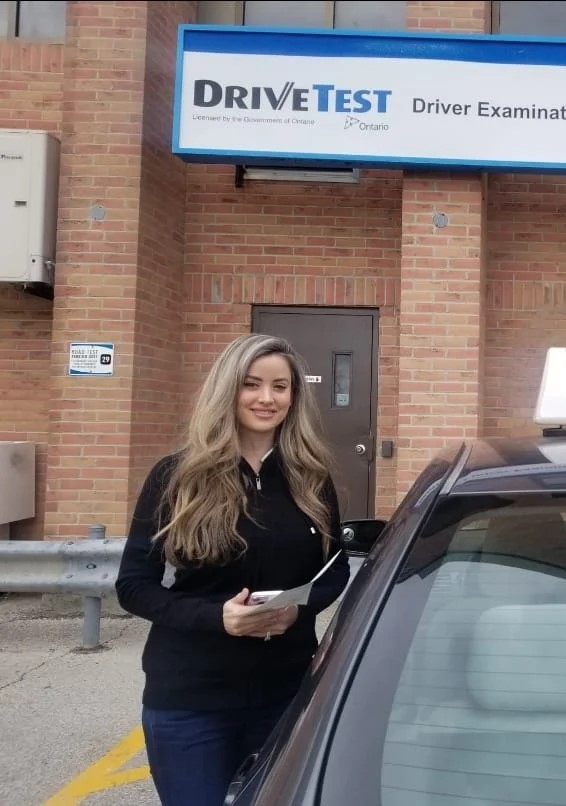
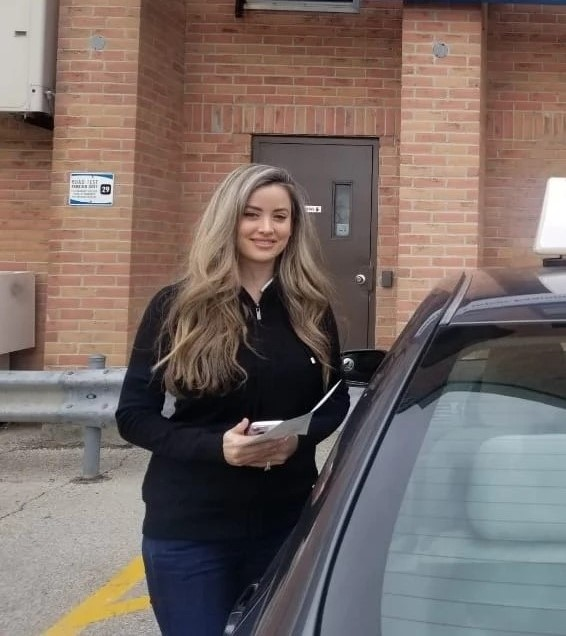
Update image sources for driving lessons in about.html and index.html

diff --git a/index.html b/index.html
@@ -315,8 +315,8 @@
             <div class="row g-5">
                 <div class="col-lg-6 wow fadeInUp" data-wow-delay="0.1s">
                     <div class="position-relative overflow-hidden ps-5 pt-5 h-100" style="min-height: 400px;">
-                        <img class="position-absolute w-100 h-100" src="img/car-teen-driving-lessons-windsor-ontario.jpg" alt="Top Windsor Driving School" style="object-fit: cover; object-position: 0% 100%;" loading="lazy">
-                        <img class="position-absolute top-0 start-0 bg-white pe-3 pb-3" src="img/driving-test-preparation-windsor,-ontario.png" alt="Student training session" style="width: 200px; height: 200px; object-fit: cover; object-position: 30% 85%;" loading="lazy">
+                        <img class="position-absolute w-100 h-100" src="img/g2-driving-lessons-windsor- ontario-test.jpg" alt="Top Windsor Driving School" style="object-fit: cover; object-position: 20% 80%;" loading="lazy">
+                        <img class="position-absolute top-0 start-0 bg-white pe-3 pb-3" src="img/drive-test-centre-sarnia-g-test.jpg" alt="Student training session" style="width: 200px; height: 200px; object-fit: cover; object-position: 30% 85%;" loading="lazy">
                     </div>
                 </div>
                 <div class="col-lg-6 wow fadeInUp" data-wow-delay="0.5s">

diff --git a/about.html b/about.html
@@ -207,7 +207,7 @@
             <div class="row g-5">
                 <div class="col-lg-6 wow fadeInUp" data-wow-delay="0.1s">
                     <div class="position-relative overflow-hidden ps-5 pt-5 h-100" style="min-height: 400px;">
-                        <img class="position-absolute w-100 h-100" src="img/happy-alumni-passed-at-drive-test-centre-windsor.jpg" alt="Top Windsor Driving School" style="object-fit: cover; object-position: 10% center;" >
+                        <img class="position-absolute w-100 h-100" src="img/teen-drivers-ed-windsor-ontario.png" alt="Top Windsor Driving School" style="object-fit: cover; object-position: 10% center;" >
                         <img class="position-absolute top-0 start-0 bg-white pe-3 pb-3" src="img/finished-driving-lessons-windsor-and-passed-g2-exam.jpg" alt="Lasalle Driving Lessons to Teenager" style="width: 200px; height: 200px; object-fit: cover; object-position: 40% 85%;" loading="lazy"> 
                     </div>
                 </div>
